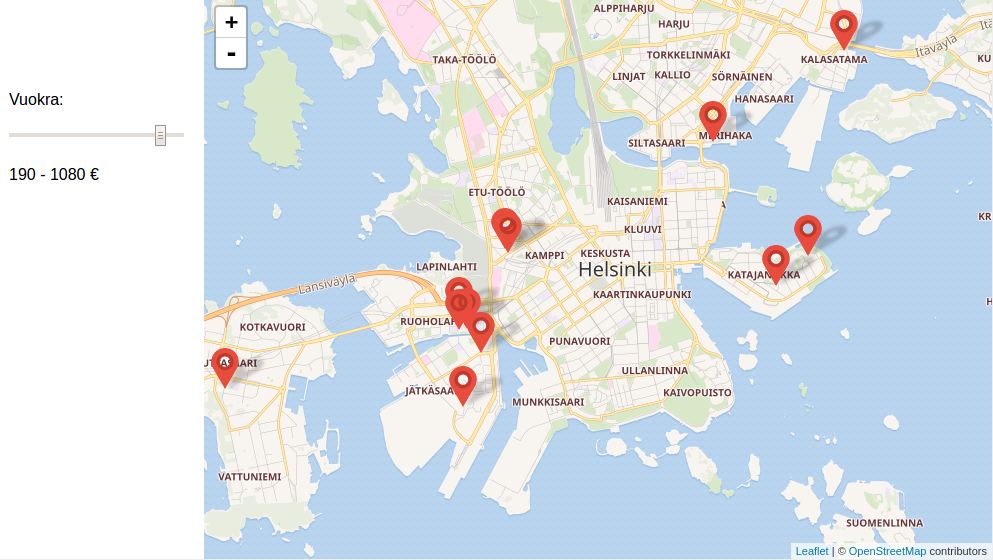
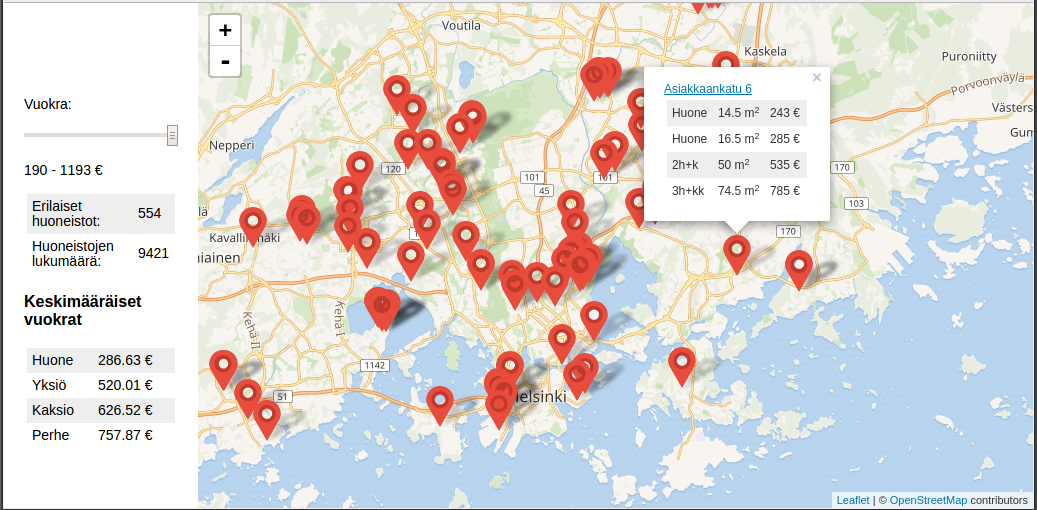
Statistics to side panel

diff --git a/app/components/Statistics.jsx b/app/components/Statistics.jsx
@@ -1,0 +1,72 @@
+import React, { Component } from "react";
+import houseTypes from "../constants/residenceTypes";
+
+function sum(array) {
+  return array.reduce((acc, cur) => acc + cur, 0);
+}
+
+export default class Statistics extends Component {
+  constructor(props) {
+    super();
+    const residences = props.apartments
+        .map(x => x.residences)
+        .reduce((acc, cur) => acc.concat(cur), []);
+
+    const residenceCount = props.apartments
+        .reduce((acc, cur) => acc + cur.residence_count, 0);
+
+    this.state = {
+      residences,
+      residenceCount,
+      types: ["dorm", "single", "double", "family"],
+    };
+  }
+
+  avgPriceForType(name) {
+    const prices = this.state.residences
+        .filter(r => houseTypes[r.type] === name)
+        .map(r => r.price);
+    return sum(prices) / prices.length;
+  }
+
+  houseTypePrices(fiName, enName) {
+    return (
+      <tr>
+        <td>{fiName}</td>
+        <td>{this.avgPriceForType(enName).toFixed(2)} €</td>
+      </tr>
+    );
+  }
+
+  render() {
+    return (
+      <div>
+        <table>
+          <tbody>
+            <tr>
+              <td>Erilaiset huoneistot:</td>
+              <td>{this.state.residences.length}</td>
+            </tr>
+            <tr>
+              <td>Huoneistojen lukumäärä:</td>
+              <td>{this.state.residenceCount}</td>
+            </tr>
+          </tbody>
+        </table>
+        <h3>Keskimääräiset vuokrat</h3>
+        <table>
+          <tbody>
+            {this.houseTypePrices("Huone", "dorm")}
+            {this.houseTypePrices("Yksiö", "single")}
+            {this.houseTypePrices("Kaksio", "double")}
+            {this.houseTypePrices("Perhe", "family")}
+          </tbody>
+        </table>
+      </div>
+    );
+  }
+}
+
+Statistics.propTypes = {
+  apartments: React.PropTypes.arrayOf(React.PropTypes.any).isRequired,
+};

diff --git a/app/components/SidePanel.jsx b/app/components/SidePanel.jsx
@@ -1,12 +1,13 @@
 import React, { Component } from "react";
 
 import Slider from "./Slider";
+import Statistics from "./Statistics";
 
 export default class SidePanel extends Component {
   constructor(props) {
     super();
-    const residences = props.apartments.map(a => a.residences).reduce((a, b) => (
-      a.concat(b)
+    const residences = props.apartments.map(a => a.residences).reduce((acc, cur) => (
+      acc.concat(cur)
     ), []);
     const highestPrice = Math.max.apply(null, residences.map(x => x.price));
     this.state = {
@@ -14,7 +15,6 @@ export default class SidePanel extends Component {
       selectedMaxPrice: highestPrice,
       minPrice: Math.min.apply(null, residences.map(x => x.price)),
     };
-
     this.updateApartments = this.updateApartments.bind(this);
   }
 
@@ -35,8 +35,13 @@ export default class SidePanel extends Component {
           min={this.state.minPrice} max={this.state.maxPrice}
         />
         <p className="min-price-area">{this.state.minPrice} - {this.state.selectedMaxPrice} €</p>
+        <Statistics apartments={this.props.apartments} />
       </div>
     );
   }
-
 }
+
+SidePanel.propTypes = {
+  apartments: React.PropTypes.any.isRequired,
+  filterApartments: React.PropTypes.func.isRequired,
+};

diff --git a/app/constants/residenceTypes.js b/app/constants/residenceTypes.js
@@ -1,0 +1,29 @@
+export default {
+  "1h+yhteiskeittiö": "dorm",
+  Huone: "dorm",
+  "1h+kt": "single",
+  "1h+tpk": "single",
+  "1h+minikeittiö": "single",
+  "1h+kk": "single",
+  "1h+oh+kk": "double",
+  "1h+k": "double",
+  "1h+oh+k": "double",
+  "1h+oh+kt": "double",
+  "1h+oh+tpk": "double",
+  "1h+parvi+tpk": "double",
+  "2h+k": "double",
+  "2h+kt": "double",
+  "2h+tpk": "double",
+  "2h+kk": "double",
+  "2h+oh+tpk": "double",
+  "2h+k+parvihuone": "double",
+  "2h+oh+k": "family",
+  "2h+oh+kk": "family",
+  "3h+tpk": "family",
+  "3h+k": "family",
+  "3h+oh+k": "family",
+  "3h+kk": "family",
+  "3h+oh+kk": "family",
+  "4h+k": "family",
+  "8h+oh+tpk": "family",
+};

diff --git a/app/components/Map.jsx b/app/components/Map.jsx
@@ -14,15 +14,13 @@ export default class DormMap extends Component {
       zoom: 11,
       markers: this.createMarkers(hoasData.apartments),
     };
-
     this.filterApartments = this.filterApartments.bind(this);
   }
 
   createMarkers(apartments) {
-    const marks = apartments.filter(x => x.lat).map(a => (
+    return apartments.filter(x => x.lat).map(a => (
       <HouseMarker key={a.address} position={[a.lat, a.lng]} apartment={a} />
     ));
-    return marks;
   }
 
   filterApartments(maxPrice) {

diff --git a/app/css/sidePanel.css b/app/css/sidePanel.css
@@ -1,11 +1,29 @@
 .sidepanel {
-    width: 175px;
+    width: 15%;
     height: 100%;
     float: left;
     padding-top: 60px;
     margin: 20px;
+    font-size: 0.85em;
 }
 
 .price-slider {
   width: 100%;
+}
+
+table {
+  width: 100%;
+  padding: 3px;
+  border-spacing: 0px;
+}
+
+td {
+  padding: 5px;
+}
+
+tr {
+  border: #fff 1px solid;
+}
+tr:nth-child(odd) {
+  background: #eee;
 }

diff --git a/app/components/Pricing.jsx b/app/components/Pricing.jsx
@@ -4,7 +4,7 @@ export default class Pricing extends Component {
   render() {
     const residenceData = this.props.apartment.residences;
     const residences = residenceData.map(r => ((
-      <tr>
+      <tr key={r.type + r.area + r.price}>
         <td>{r.type}</td>
         <td>{r.area} m<sup>2</sup></td>
         <td>{r.price} €</td>

diff --git a/app/components/HouseMarker.jsx b/app/components/HouseMarker.jsx
@@ -44,3 +44,8 @@ export default class HouseMarker extends Component {
     );
   }
 }
+
+HouseMarker.propTypes = {
+  position: React.PropTypes.arrayOf(React.PropTypes.number).isRequired,
+  apartment: React.PropTypes.any.isRequired,
+};

diff --git a/webpack.config.js b/webpack.config.js
@@ -7,6 +7,7 @@ module.exports = {
   output: {
     path: path.resolve(__dirname, "bin/"),
     filename: "bundle.js",
+    publicPath: "/bin/",
   },
   module: {
     loaders: [

diff --git a/README.md b/README.md
@@ -5,7 +5,7 @@
 ### Building
 
 1. `npm install`
-2. `webpack`
+2. `./node_modules/webpack/bin/webpack.js` (or just `webpack` if installed globally)
 3. Open index.html
 
 Libraries: react, leaflet.
